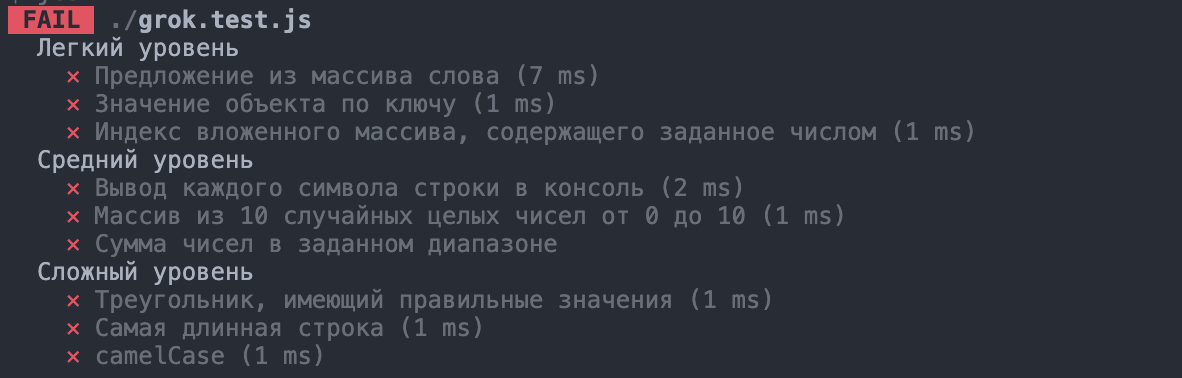
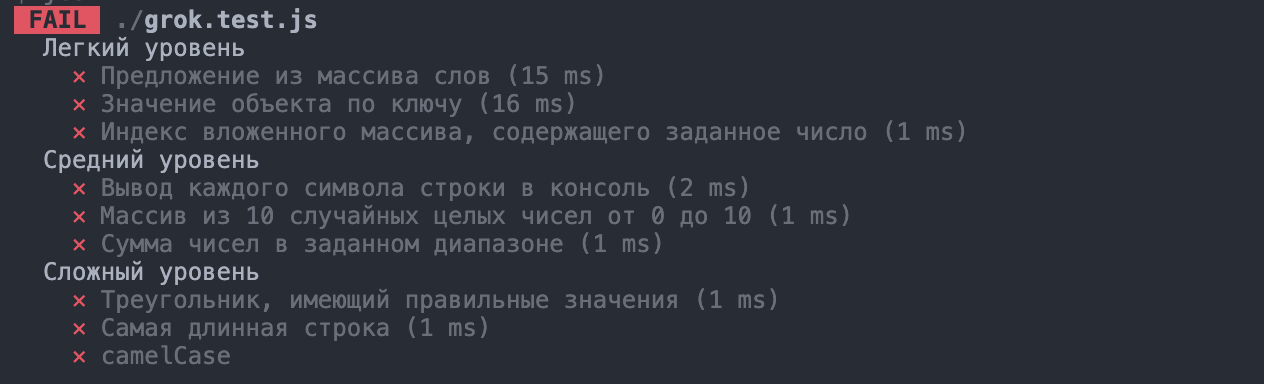
typos fixed

Changed region(s): [[0.0, 0.0, 0.8223, 0.9603]]

diff --git a/grok.test.js b/grok.test.js
@@ -12,7 +12,7 @@ const funcHard3 = require('./Hard/3.js')
 
 describe('Легкий уровень', () => {
 
-  test('Предложение из массива слова', () => {
+  test('Предложение из массива слов', () => {
     expect(funcEasy1(['Привет', 'мир', '!'])).toBe('Привет мир !')
     expect(funcEasy1(['Грок', 'JS'])).toBe('Грок JS')
     expect(funcEasy1(['Grok', 'Marathon', 'Решение', 'задач'])).toBe('Grok Marathon Решение задач')
@@ -30,7 +30,7 @@ describe('Легкий уровень', () => {
 
   })
 
-  test('Индекс вложенного массива, содержащего заданное числом', () => {
+  test('Индекс вложенного массива, содержащего заданное число', () => {
     const arr = [[1, 2, 3], [4, 5, 6], [7,8,9]]
     expect(funcEasy3(arr, 3)).toBe(0)
     expect(funcEasy3(arr, 9)).toBe(2)
